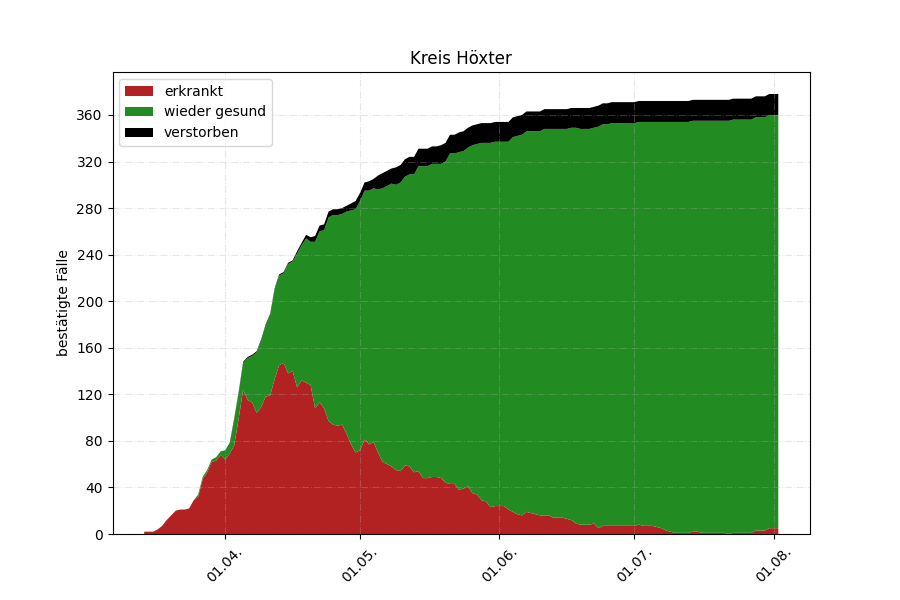
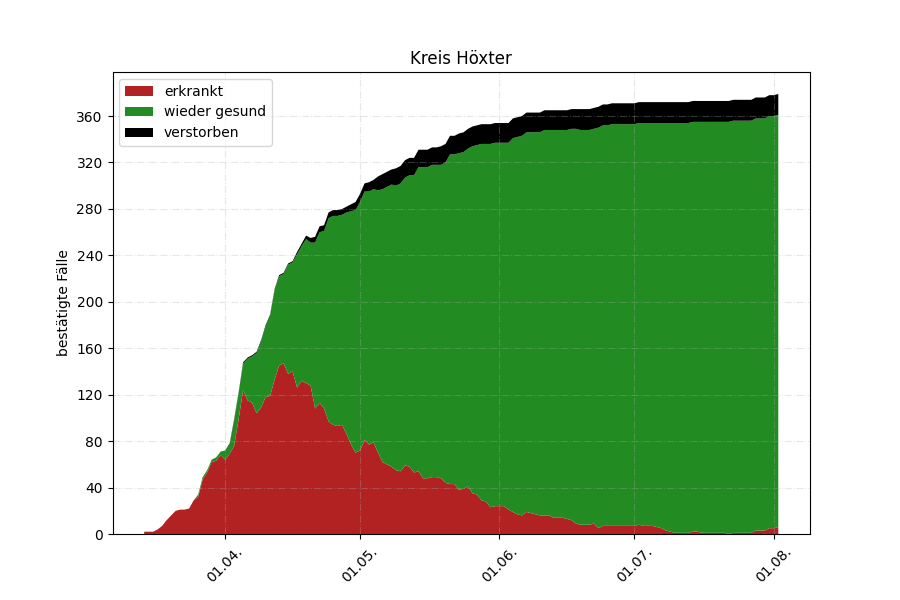
Stand 2. August, 3

diff --git a/communes/marienmuenster.html b/communes/marienmuenster.html
@@ -18,10 +18,10 @@
 <meta property="og:url" content="https://covidoplot.github.io/communes/marienmuenster.html" />
 <meta property="og:site_name" content="Covid 19 im Kreis Höxter" />
 <meta property="og:type" content="article" />
-<meta property="article:published_time" content="2020-08-02T12:05:07+02:00" />
+<meta property="article:published_time" content="2020-08-02T12:34:32+02:00" />
 <meta name="google-site-verification" content="Jy9GjP1zJSZb24WTJkI5fc6zPYqWLYs0bo6EZXmsmKY" />
 <script type="application/ld+json">
-{"url":"https://covidoplot.github.io/communes/marienmuenster.html","headline":"Marienmünster","dateModified":"2020-08-02T12:05:07+02:00","datePublished":"2020-08-02T12:05:07+02:00","mainEntityOfPage":{"@type":"WebPage","@id":"https://covidoplot.github.io/communes/marienmuenster.html"},"author":{"@type":"Person","name":"Elmar Hinz"},"description":"Daten und Diagramme zur Coronavirus-Krankheit 2019 in Marienmünster","@type":"BlogPosting","@context":"https://schema.org"}</script>
+{"url":"https://covidoplot.github.io/communes/marienmuenster.html","headline":"Marienmünster","dateModified":"2020-08-02T12:34:32+02:00","datePublished":"2020-08-02T12:34:32+02:00","mainEntityOfPage":{"@type":"WebPage","@id":"https://covidoplot.github.io/communes/marienmuenster.html"},"author":{"@type":"Person","name":"Elmar Hinz"},"description":"Daten und Diagramme zur Coronavirus-Krankheit 2019 in Marienmünster","@type":"BlogPosting","@context":"https://schema.org"}</script>
 <!-- End Jekyll SEO tag -->
 
 </head>

diff --git a/communes/willebadessen.html b/communes/willebadessen.html
@@ -18,10 +18,10 @@
 <meta property="og:url" content="https://covidoplot.github.io/communes/willebadessen.html" />
 <meta property="og:site_name" content="Covid 19 im Kreis Höxter" />
 <meta property="og:type" content="article" />
-<meta property="article:published_time" content="2020-08-02T12:05:07+02:00" />
+<meta property="article:published_time" content="2020-08-02T12:34:32+02:00" />
 <meta name="google-site-verification" content="Jy9GjP1zJSZb24WTJkI5fc6zPYqWLYs0bo6EZXmsmKY" />
 <script type="application/ld+json">
-{"url":"https://covidoplot.github.io/communes/willebadessen.html","headline":"Willebadessen","dateModified":"2020-08-02T12:05:07+02:00","datePublished":"2020-08-02T12:05:07+02:00","mainEntityOfPage":{"@type":"WebPage","@id":"https://covidoplot.github.io/communes/willebadessen.html"},"author":{"@type":"Person","name":"Elmar Hinz"},"description":"Daten und Diagramme zur Coronavirus-Krankheit 2019 in Willebadessen","@type":"BlogPosting","@context":"https://schema.org"}</script>
+{"url":"https://covidoplot.github.io/communes/willebadessen.html","headline":"Willebadessen","dateModified":"2020-08-02T12:34:32+02:00","datePublished":"2020-08-02T12:34:32+02:00","mainEntityOfPage":{"@type":"WebPage","@id":"https://covidoplot.github.io/communes/willebadessen.html"},"author":{"@type":"Person","name":"Elmar Hinz"},"description":"Daten und Diagramme zur Coronavirus-Krankheit 2019 in Willebadessen","@type":"BlogPosting","@context":"https://schema.org"}</script>
 <!-- End Jekyll SEO tag -->
 
 </head>

diff --git a/communes/borgentreich.html b/communes/borgentreich.html
@@ -18,10 +18,10 @@
 <meta property="og:url" content="https://covidoplot.github.io/communes/borgentreich.html" />
 <meta property="og:site_name" content="Covid 19 im Kreis Höxter" />
 <meta property="og:type" content="article" />
-<meta property="article:published_time" content="2020-08-02T12:05:07+02:00" />
+<meta property="article:published_time" content="2020-08-02T12:34:32+02:00" />
 <meta name="google-site-verification" content="Jy9GjP1zJSZb24WTJkI5fc6zPYqWLYs0bo6EZXmsmKY" />
 <script type="application/ld+json">
-{"url":"https://covidoplot.github.io/communes/borgentreich.html","headline":"Borgentreich","dateModified":"2020-08-02T12:05:07+02:00","datePublished":"2020-08-02T12:05:07+02:00","mainEntityOfPage":{"@type":"WebPage","@id":"https://covidoplot.github.io/communes/borgentreich.html"},"author":{"@type":"Person","name":"Elmar Hinz"},"description":"Daten und Diagramme zur Coronavirus-Krankheit 2019 in Borgentreich","@type":"BlogPosting","@context":"https://schema.org"}</script>
+{"url":"https://covidoplot.github.io/communes/borgentreich.html","headline":"Borgentreich","dateModified":"2020-08-02T12:34:32+02:00","datePublished":"2020-08-02T12:34:32+02:00","mainEntityOfPage":{"@type":"WebPage","@id":"https://covidoplot.github.io/communes/borgentreich.html"},"author":{"@type":"Person","name":"Elmar Hinz"},"description":"Daten und Diagramme zur Coronavirus-Krankheit 2019 in Borgentreich","@type":"BlogPosting","@context":"https://schema.org"}</script>
 <!-- End Jekyll SEO tag -->
 
 </head>

diff --git a/communes/bad-driburg.html b/communes/bad-driburg.html
@@ -18,10 +18,10 @@
 <meta property="og:url" content="https://covidoplot.github.io/communes/bad-driburg.html" />
 <meta property="og:site_name" content="Covid 19 im Kreis Höxter" />
 <meta property="og:type" content="article" />
-<meta property="article:published_time" content="2020-08-02T12:05:07+02:00" />
+<meta property="article:published_time" content="2020-08-02T12:34:32+02:00" />
 <meta name="google-site-verification" content="Jy9GjP1zJSZb24WTJkI5fc6zPYqWLYs0bo6EZXmsmKY" />
 <script type="application/ld+json">
-{"url":"https://covidoplot.github.io/communes/bad-driburg.html","headline":"Bad Driburg","dateModified":"2020-08-02T12:05:07+02:00","datePublished":"2020-08-02T12:05:07+02:00","mainEntityOfPage":{"@type":"WebPage","@id":"https://covidoplot.github.io/communes/bad-driburg.html"},"author":{"@type":"Person","name":"Elmar Hinz"},"description":"Daten und Diagramme zur Coronavirus-Krankheit 2019 in Bad Driburg","@type":"BlogPosting","@context":"https://schema.org"}</script>
+{"url":"https://covidoplot.github.io/communes/bad-driburg.html","headline":"Bad Driburg","dateModified":"2020-08-02T12:34:32+02:00","datePublished":"2020-08-02T12:34:32+02:00","mainEntityOfPage":{"@type":"WebPage","@id":"https://covidoplot.github.io/communes/bad-driburg.html"},"author":{"@type":"Person","name":"Elmar Hinz"},"description":"Daten und Diagramme zur Coronavirus-Krankheit 2019 in Bad Driburg","@type":"BlogPosting","@context":"https://schema.org"}</script>
 <!-- End Jekyll SEO tag -->
 
 </head>

diff --git a/communes/beverungen.html b/communes/beverungen.html
@@ -18,10 +18,10 @@
 <meta property="og:url" content="https://covidoplot.github.io/communes/beverungen.html" />
 <meta property="og:site_name" content="Covid 19 im Kreis Höxter" />
 <meta property="og:type" content="article" />
-<meta property="article:published_time" content="2020-08-02T12:05:07+02:00" />
+<meta property="article:published_time" content="2020-08-02T12:34:32+02:00" />
 <meta name="google-site-verification" content="Jy9GjP1zJSZb24WTJkI5fc6zPYqWLYs0bo6EZXmsmKY" />
 <script type="application/ld+json">
-{"url":"https://covidoplot.github.io/communes/beverungen.html","headline":"Beverungen","dateModified":"2020-08-02T12:05:07+02:00","datePublished":"2020-08-02T12:05:07+02:00","mainEntityOfPage":{"@type":"WebPage","@id":"https://covidoplot.github.io/communes/beverungen.html"},"author":{"@type":"Person","name":"Elmar Hinz"},"description":"Daten und Diagramme zur Coronavirus-Krankheit 2019 in Beverungen","@type":"BlogPosting","@context":"https://schema.org"}</script>
+{"url":"https://covidoplot.github.io/communes/beverungen.html","headline":"Beverungen","dateModified":"2020-08-02T12:34:32+02:00","datePublished":"2020-08-02T12:34:32+02:00","mainEntityOfPage":{"@type":"WebPage","@id":"https://covidoplot.github.io/communes/beverungen.html"},"author":{"@type":"Person","name":"Elmar Hinz"},"description":"Daten und Diagramme zur Coronavirus-Krankheit 2019 in Beverungen","@type":"BlogPosting","@context":"https://schema.org"}</script>
 <!-- End Jekyll SEO tag -->
 
 </head>

diff --git a/communes/steinheim.html b/communes/steinheim.html
@@ -18,10 +18,10 @@
 <meta property="og:url" content="https://covidoplot.github.io/communes/steinheim.html" />
 <meta property="og:site_name" content="Covid 19 im Kreis Höxter" />
 <meta property="og:type" content="article" />
-<meta property="article:published_time" content="2020-08-02T12:05:07+02:00" />
+<meta property="article:published_time" content="2020-08-02T12:34:32+02:00" />
 <meta name="google-site-verification" content="Jy9GjP1zJSZb24WTJkI5fc6zPYqWLYs0bo6EZXmsmKY" />
 <script type="application/ld+json">
-{"url":"https://covidoplot.github.io/communes/steinheim.html","headline":"Steinheim","dateModified":"2020-08-02T12:05:07+02:00","datePublished":"2020-08-02T12:05:07+02:00","mainEntityOfPage":{"@type":"WebPage","@id":"https://covidoplot.github.io/communes/steinheim.html"},"author":{"@type":"Person","name":"Elmar Hinz"},"description":"Daten und Diagramme zur Coronavirus-Krankheit 2019 in Steinheim","@type":"BlogPosting","@context":"https://schema.org"}</script>
+{"url":"https://covidoplot.github.io/communes/steinheim.html","headline":"Steinheim","dateModified":"2020-08-02T12:34:32+02:00","datePublished":"2020-08-02T12:34:32+02:00","mainEntityOfPage":{"@type":"WebPage","@id":"https://covidoplot.github.io/communes/steinheim.html"},"author":{"@type":"Person","name":"Elmar Hinz"},"description":"Daten und Diagramme zur Coronavirus-Krankheit 2019 in Steinheim","@type":"BlogPosting","@context":"https://schema.org"}</script>
 <!-- End Jekyll SEO tag -->
 
 </head>

diff --git a/communes/hoexter.html b/communes/hoexter.html
@@ -18,10 +18,10 @@
 <meta property="og:url" content="https://covidoplot.github.io/communes/hoexter.html" />
 <meta property="og:site_name" content="Covid 19 im Kreis Höxter" />
 <meta property="og:type" content="article" />
-<meta property="article:published_time" content="2020-08-02T12:05:07+02:00" />
+<meta property="article:published_time" content="2020-08-02T12:34:32+02:00" />
 <meta name="google-site-verification" content="Jy9GjP1zJSZb24WTJkI5fc6zPYqWLYs0bo6EZXmsmKY" />
 <script type="application/ld+json">
-{"url":"https://covidoplot.github.io/communes/hoexter.html","headline":"Höxter","dateModified":"2020-08-02T12:05:07+02:00","datePublished":"2020-08-02T12:05:07+02:00","mainEntityOfPage":{"@type":"WebPage","@id":"https://covidoplot.github.io/communes/hoexter.html"},"author":{"@type":"Person","name":"Elmar Hinz"},"description":"Daten und Diagramme zur Coronavirus-Krankheit 2019 in Höxter","@type":"BlogPosting","@context":"https://schema.org"}</script>
+{"url":"https://covidoplot.github.io/communes/hoexter.html","headline":"Höxter","dateModified":"2020-08-02T12:34:32+02:00","datePublished":"2020-08-02T12:34:32+02:00","mainEntityOfPage":{"@type":"WebPage","@id":"https://covidoplot.github.io/communes/hoexter.html"},"author":{"@type":"Person","name":"Elmar Hinz"},"description":"Daten und Diagramme zur Coronavirus-Krankheit 2019 in Höxter","@type":"BlogPosting","@context":"https://schema.org"}</script>
 <!-- End Jekyll SEO tag -->
 
 </head>

diff --git a/communes/nieheim.html b/communes/nieheim.html
@@ -18,10 +18,10 @@
 <meta property="og:url" content="https://covidoplot.github.io/communes/nieheim.html" />
 <meta property="og:site_name" content="Covid 19 im Kreis Höxter" />
 <meta property="og:type" content="article" />
-<meta property="article:published_time" content="2020-08-02T12:05:07+02:00" />
+<meta property="article:published_time" content="2020-08-02T12:34:32+02:00" />
 <meta name="google-site-verification" content="Jy9GjP1zJSZb24WTJkI5fc6zPYqWLYs0bo6EZXmsmKY" />
 <script type="application/ld+json">
-{"url":"https://covidoplot.github.io/communes/nieheim.html","headline":"Nieheim","dateModified":"2020-08-02T12:05:07+02:00","datePublished":"2020-08-02T12:05:07+02:00","mainEntityOfPage":{"@type":"WebPage","@id":"https://covidoplot.github.io/communes/nieheim.html"},"author":{"@type":"Person","name":"Elmar Hinz"},"description":"Daten und Diagramme zur Coronavirus-Krankheit 2019 in Nieheim","@type":"BlogPosting","@context":"https://schema.org"}</script>
+{"url":"https://covidoplot.github.io/communes/nieheim.html","headline":"Nieheim","dateModified":"2020-08-02T12:34:32+02:00","datePublished":"2020-08-02T12:34:32+02:00","mainEntityOfPage":{"@type":"WebPage","@id":"https://covidoplot.github.io/communes/nieheim.html"},"author":{"@type":"Person","name":"Elmar Hinz"},"description":"Daten und Diagramme zur Coronavirus-Krankheit 2019 in Nieheim","@type":"BlogPosting","@context":"https://schema.org"}</script>
 <!-- End Jekyll SEO tag -->
 
 </head>

diff --git a/communes/warburg.html b/communes/warburg.html
@@ -18,10 +18,10 @@
 <meta property="og:url" content="https://covidoplot.github.io/communes/warburg.html" />
 <meta property="og:site_name" content="Covid 19 im Kreis Höxter" />
 <meta property="og:type" content="article" />
-<meta property="article:published_time" content="2020-08-02T12:05:07+02:00" />
+<meta property="article:published_time" content="2020-08-02T12:34:32+02:00" />
 <meta name="google-site-verification" content="Jy9GjP1zJSZb24WTJkI5fc6zPYqWLYs0bo6EZXmsmKY" />
 <script type="application/ld+json">
-{"url":"https://covidoplot.github.io/communes/warburg.html","headline":"Warburg","dateModified":"2020-08-02T12:05:07+02:00","datePublished":"2020-08-02T12:05:07+02:00","mainEntityOfPage":{"@type":"WebPage","@id":"https://covidoplot.github.io/communes/warburg.html"},"author":{"@type":"Person","name":"Elmar Hinz"},"description":"Daten und Diagramme zur Coronavirus-Krankheit 2019 in Warburg","@type":"BlogPosting","@context":"https://schema.org"}</script>
+{"url":"https://covidoplot.github.io/communes/warburg.html","headline":"Warburg","dateModified":"2020-08-02T12:34:32+02:00","datePublished":"2020-08-02T12:34:32+02:00","mainEntityOfPage":{"@type":"WebPage","@id":"https://covidoplot.github.io/communes/warburg.html"},"author":{"@type":"Person","name":"Elmar Hinz"},"description":"Daten und Diagramme zur Coronavirus-Krankheit 2019 in Warburg","@type":"BlogPosting","@context":"https://schema.org"}</script>
 <!-- End Jekyll SEO tag -->
 
 </head>

diff --git a/communes/brakel.html b/communes/brakel.html
@@ -18,10 +18,10 @@
 <meta property="og:url" content="https://covidoplot.github.io/communes/brakel.html" />
 <meta property="og:site_name" content="Covid 19 im Kreis Höxter" />
 <meta property="og:type" content="article" />
-<meta property="article:published_time" content="2020-08-02T12:05:07+02:00" />
+<meta property="article:published_time" content="2020-08-02T12:34:32+02:00" />
 <meta name="google-site-verification" content="Jy9GjP1zJSZb24WTJkI5fc6zPYqWLYs0bo6EZXmsmKY" />
 <script type="application/ld+json">
-{"url":"https://covidoplot.github.io/communes/brakel.html","headline":"Brakel","dateModified":"2020-08-02T12:05:07+02:00","datePublished":"2020-08-02T12:05:07+02:00","mainEntityOfPage":{"@type":"WebPage","@id":"https://covidoplot.github.io/communes/brakel.html"},"author":{"@type":"Person","name":"Elmar Hinz"},"description":"Daten und Diagramme zur Coronavirus-Krankheit 2019 in Brakel","@type":"BlogPosting","@context":"https://schema.org"}</script>
+{"url":"https://covidoplot.github.io/communes/brakel.html","headline":"Brakel","dateModified":"2020-08-02T12:34:32+02:00","datePublished":"2020-08-02T12:34:32+02:00","mainEntityOfPage":{"@type":"WebPage","@id":"https://covidoplot.github.io/communes/brakel.html"},"author":{"@type":"Person","name":"Elmar Hinz"},"description":"Daten und Diagramme zur Coronavirus-Krankheit 2019 in Brakel","@type":"BlogPosting","@context":"https://schema.org"}</script>
 <!-- End Jekyll SEO tag -->
 
 </head>

diff --git a/kreis-hoexter.html b/kreis-hoexter.html
@@ -323,7 +323,9 @@
         <tfoot>
         <tr class="">
             <th scope="row" class="table-secondary">Insgesamt</th>
-            <td class="table-secondary">5
+            <td class="table-secondary">6
+                
+                <small>(5)</small>
                 
             </td>
             <td class="table-secondary">355
@@ -332,7 +334,9 @@
             <td class="table-secondary">18
                 
             </td>
-            <td class="table-secondary"><strong>378
+            <td class="table-secondary"><strong>379
+                
+                <small>(378)</small>
                 
             </strong></td>
         </tr>
@@ -1755,10 +1759,10 @@
         
         <tr>
             <td class="table-secondary">02. August</td>
-            <td>5</td>
+            <td>6</td>
             <td>355</td>
             <td>18</td>
-            <td class="table-secondary">378</td>
+            <td class="table-secondary">379</td>
         </tr>
         
         </tbody>

diff --git a/index.html b/index.html
@@ -100,10 +100,10 @@
         </thead>
         <tbody>
         <tr>
-            <td>5</td>
+            <td>6</td>
             <td>355</td>
             <td>18</td>
-            <td><strong>378</strong></td>
+            <td><strong>379</strong></td>
         </tr>
         </tbody>
     </table>
